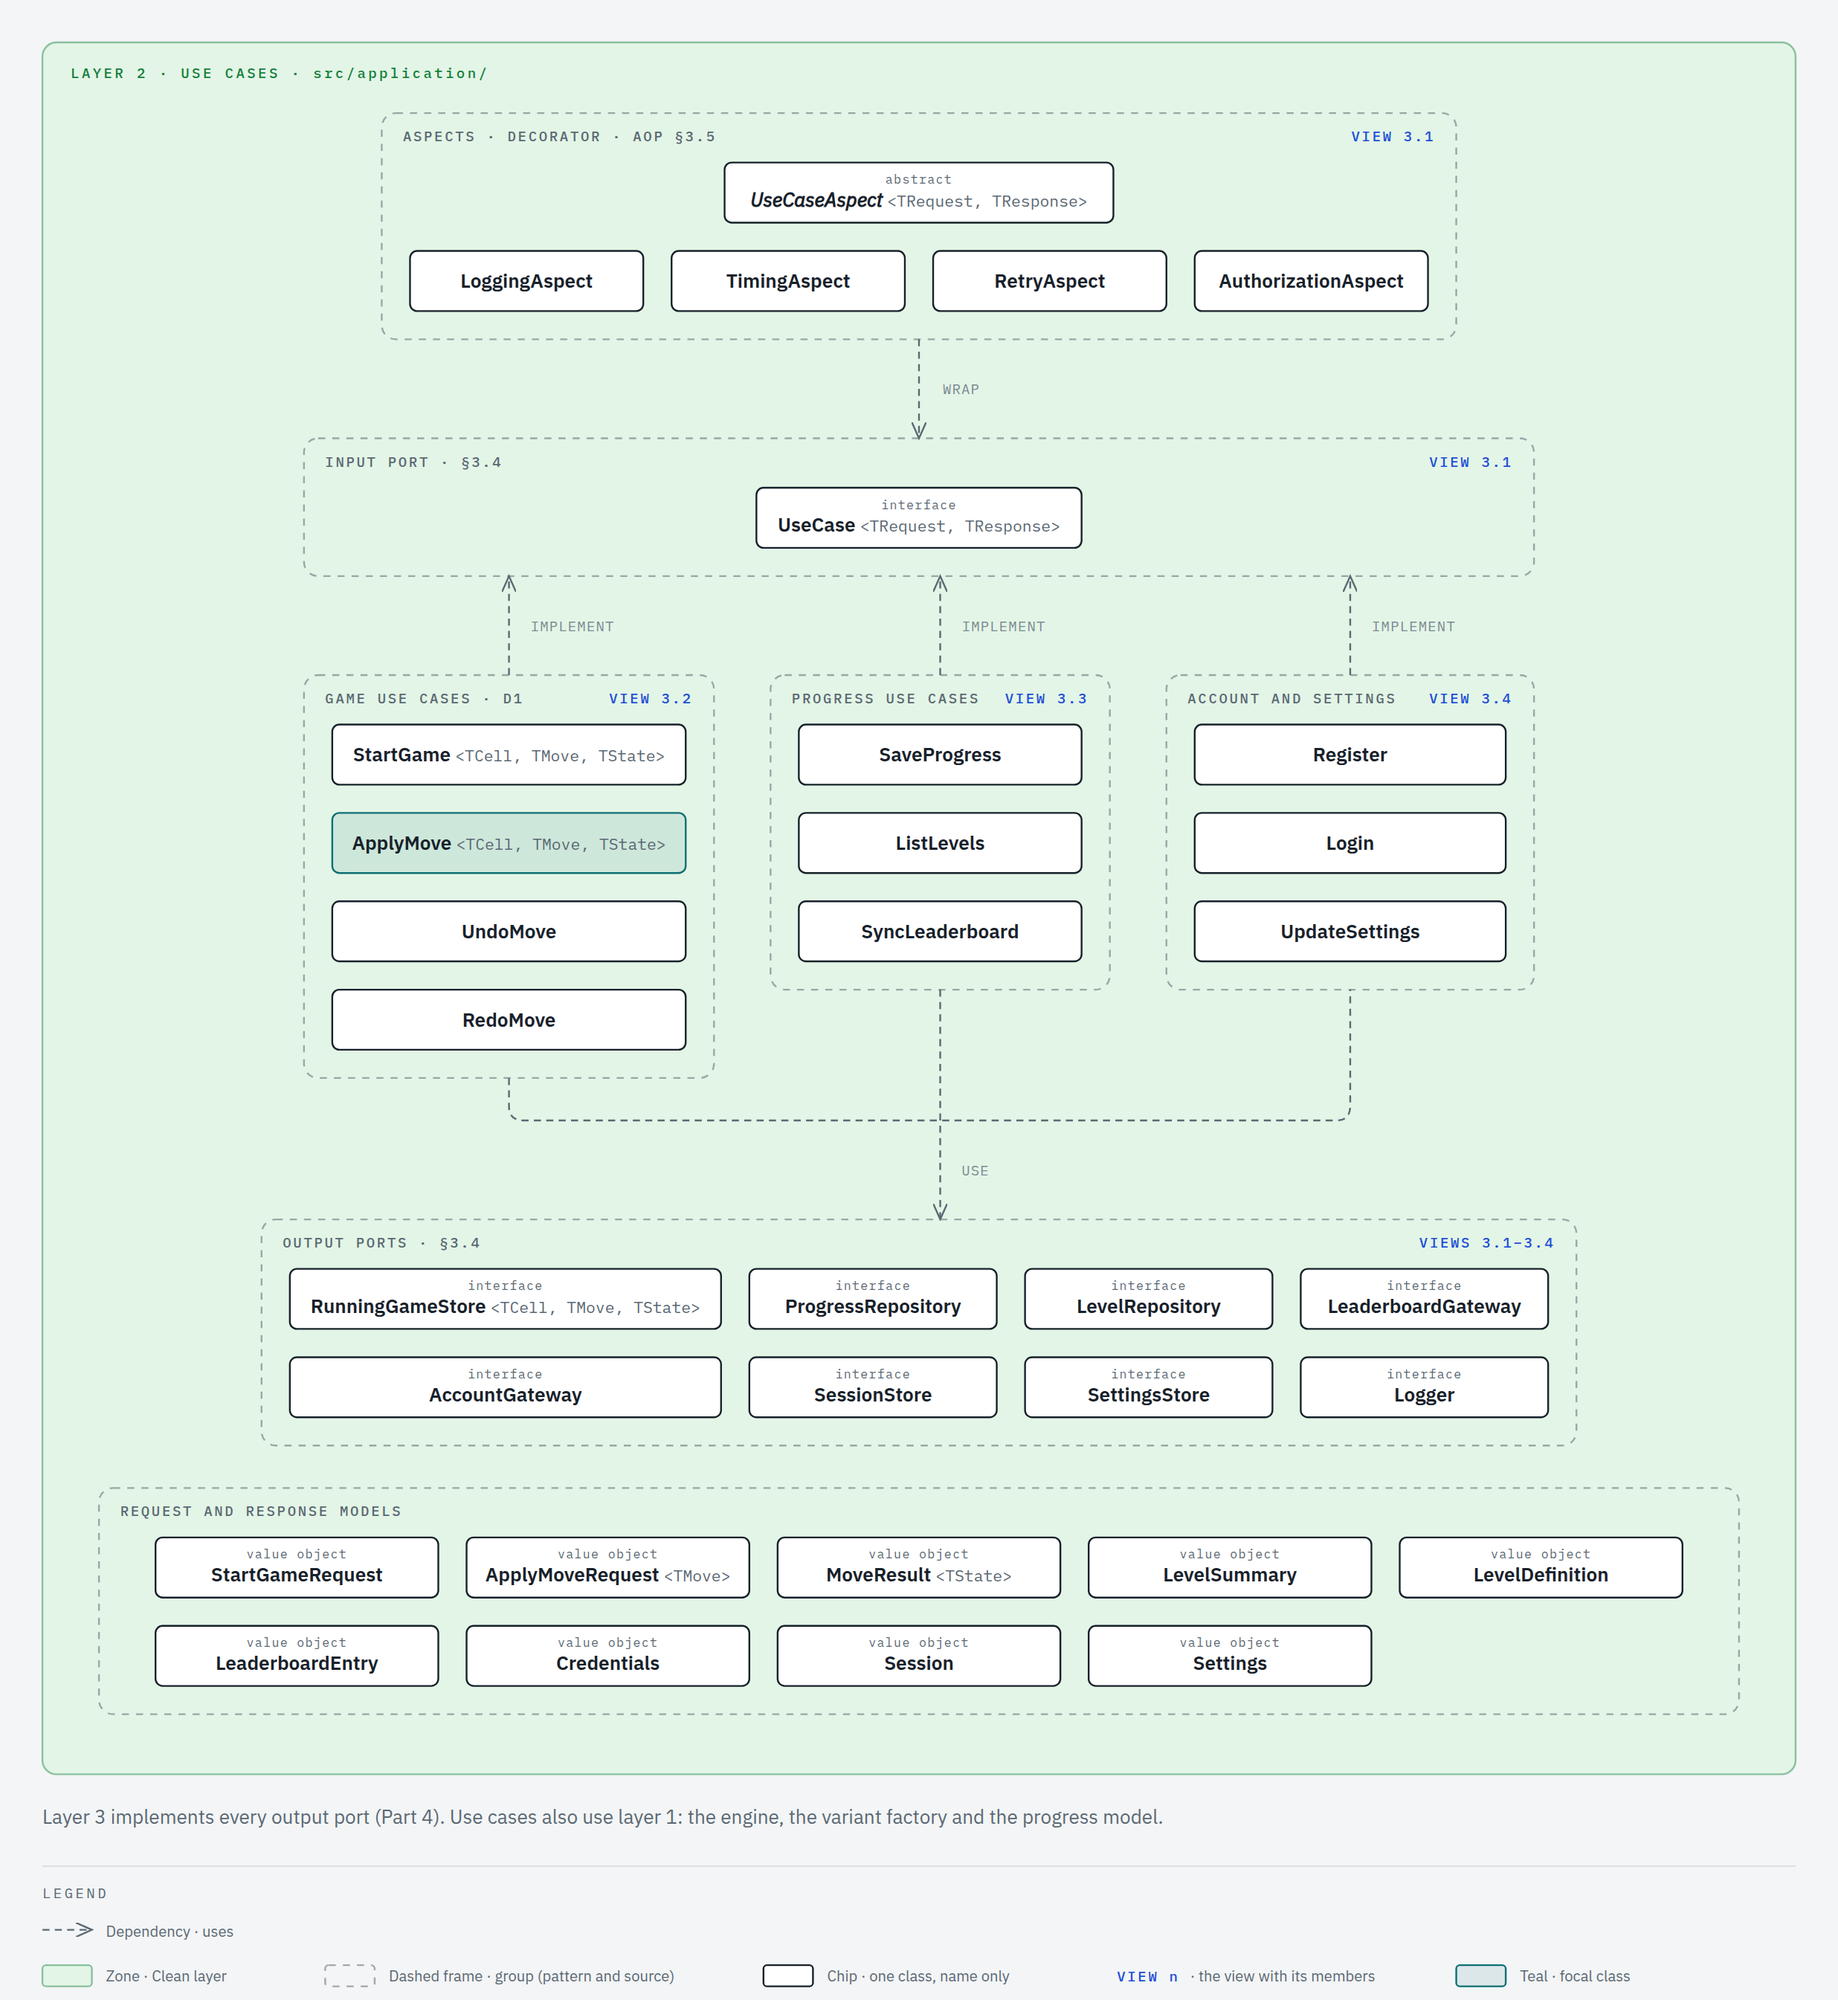
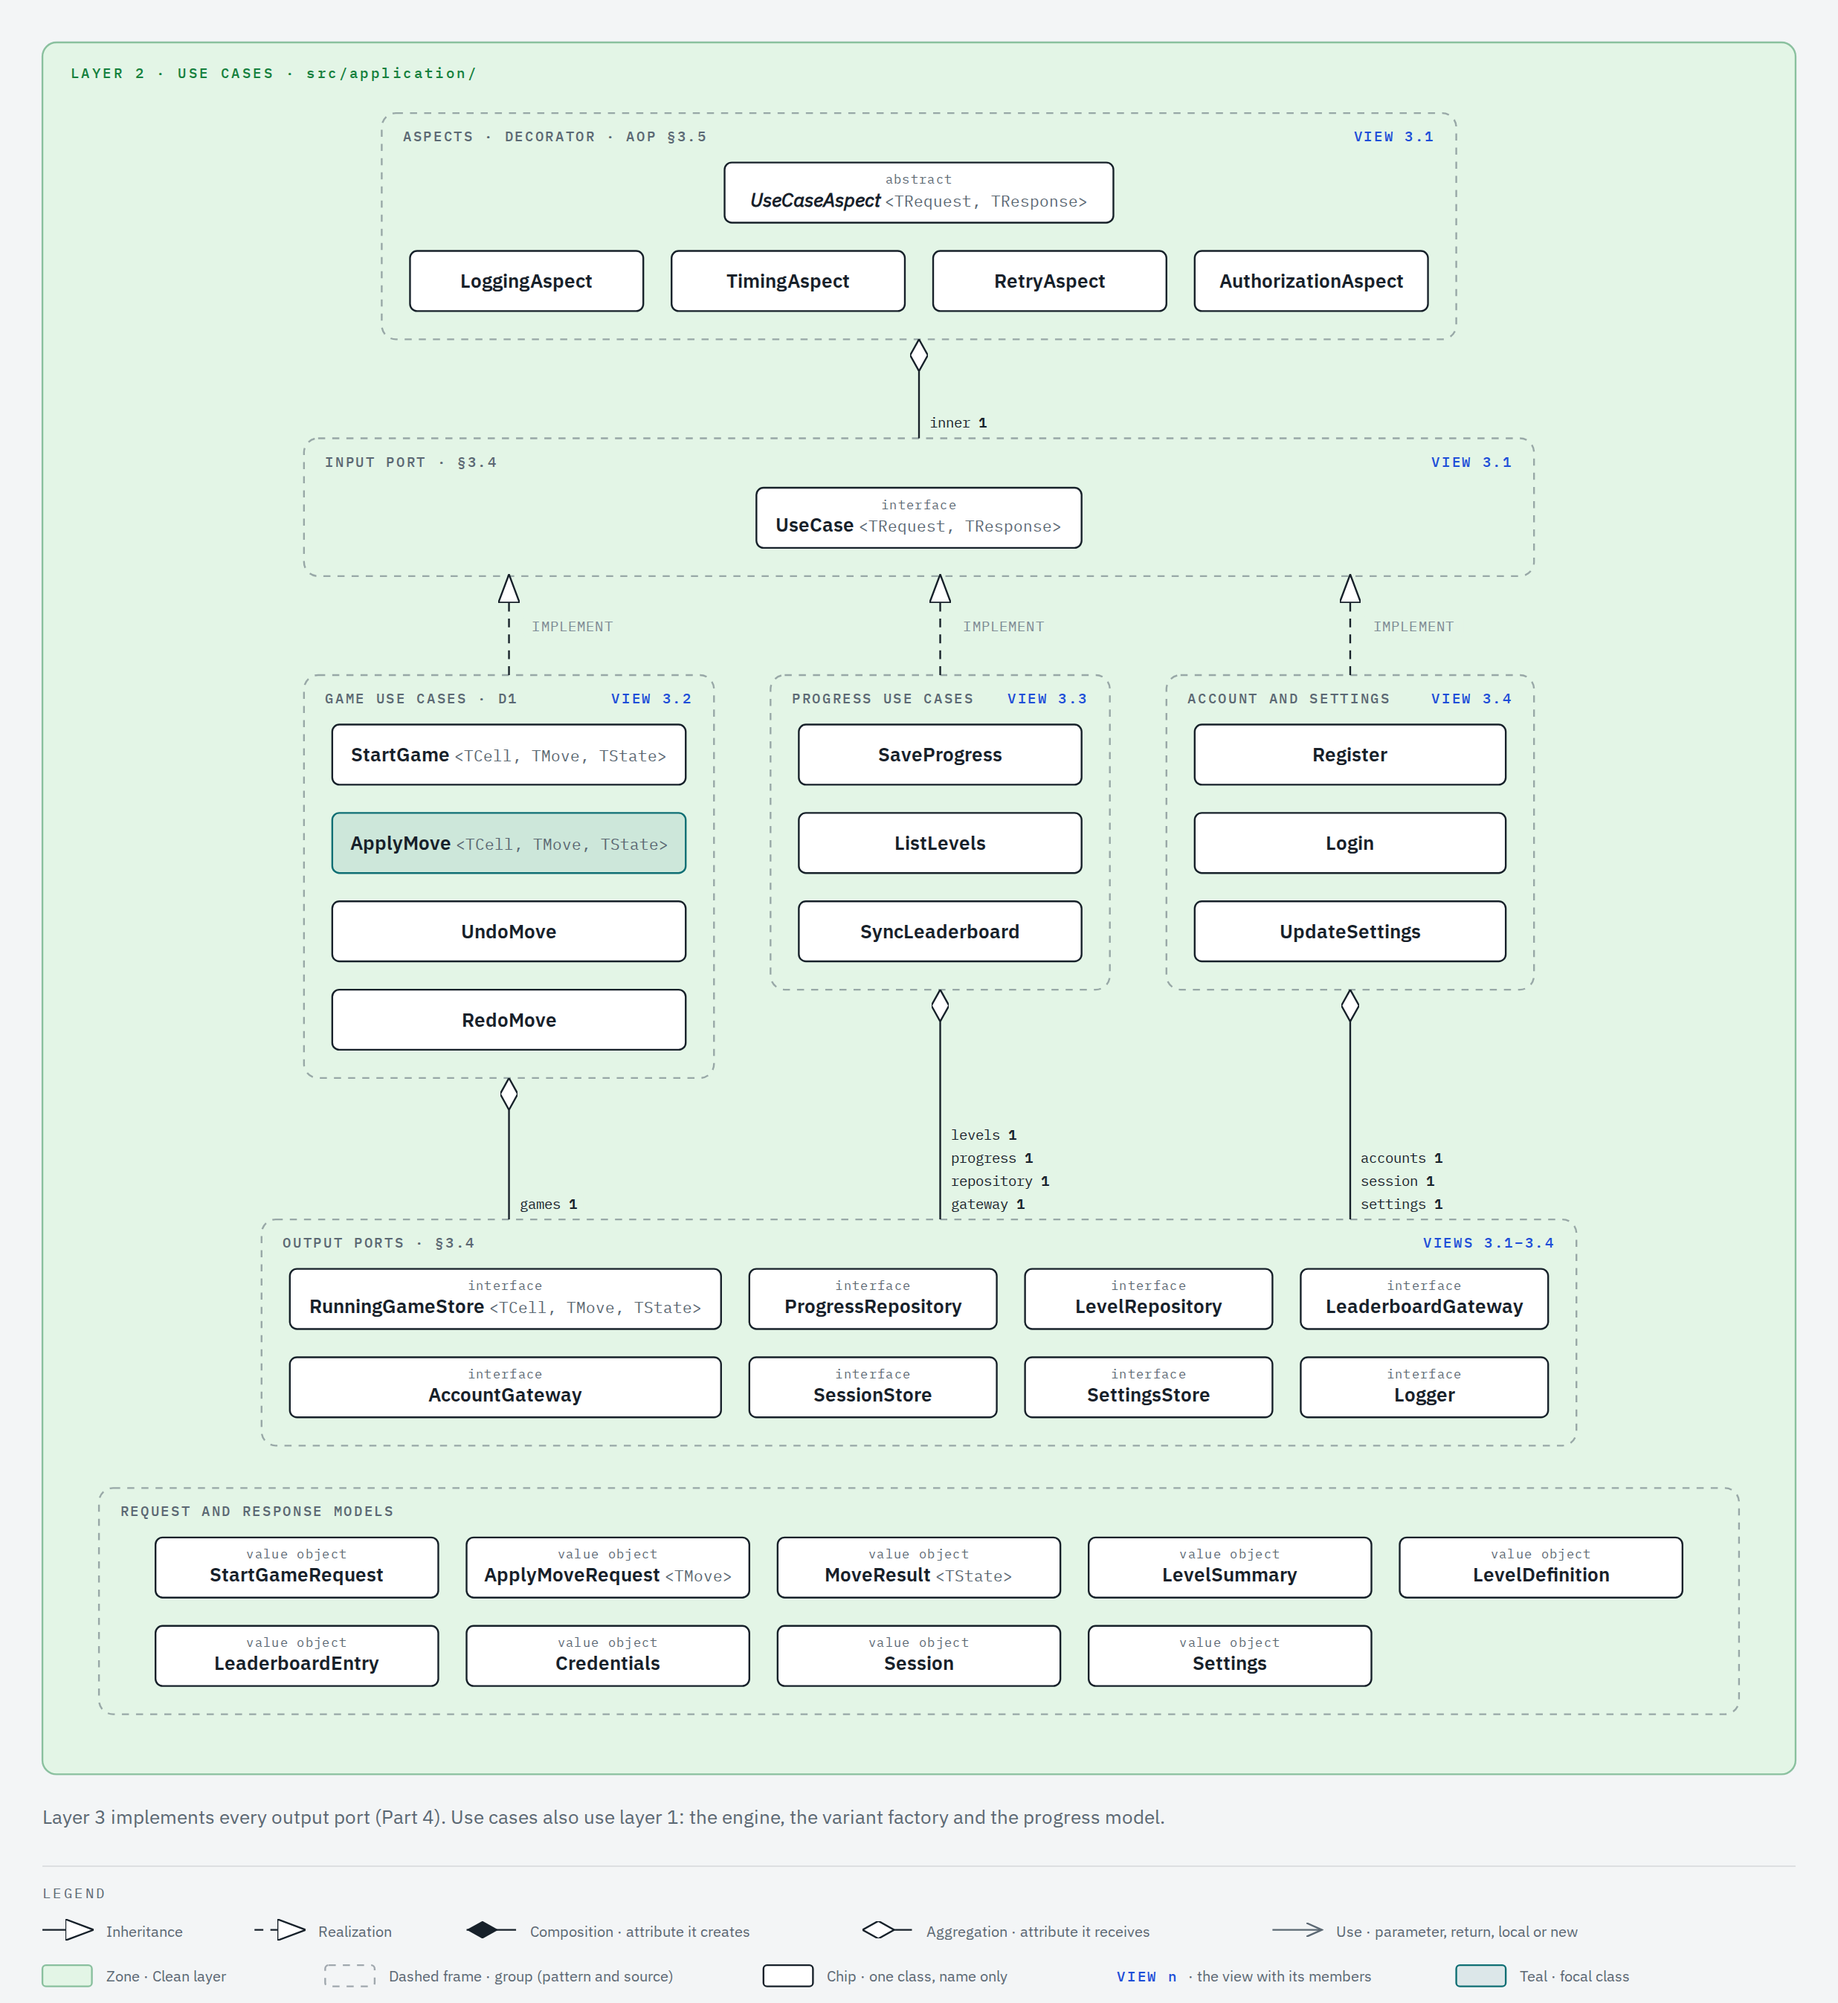
docs(architecture): show realizations and port attributes in the use case map
IMPLEMENT lines are realizations. The shared use bus becomes one aggregation per
group, with the role names of its use cases.

diff --git a/docs/architecture/classes/views/map-3-usecases.html b/docs/architecture/classes/views/map-3-usecases.html
@@ -88,6 +88,44 @@
           >
             <path d="M0,0 L9,4 L0,8" fill="none" stroke="#5b6873" stroke-width="1" />
           </marker>
+          <marker
+            id="mapuc-triangle"
+            markerWidth="16"
+            markerHeight="12"
+            refX="15"
+            refY="6"
+            orient="auto"
+            markerUnits="userSpaceOnUse"
+          >
+            <polygon points="0 0, 16 6, 0 12" fill="#ffffff" stroke="#17212a" stroke-width="1" />
+          </marker>
+          <marker
+            id="mapuc-diamond-filled"
+            markerWidth="18"
+            markerHeight="10"
+            refX="0"
+            refY="5"
+            orient="auto"
+            markerUnits="userSpaceOnUse"
+          >
+            <polygon points="0 5, 9 0, 18 5, 9 10" fill="#17212a" />
+          </marker>
+          <marker
+            id="mapuc-diamond-hollow"
+            markerWidth="18"
+            markerHeight="10"
+            refX="0"
+            refY="5"
+            orient="auto"
+            markerUnits="userSpaceOnUse"
+          >
+            <polygon
+              points="0 5, 9 0, 18 5, 9 10"
+              fill="#ffffff"
+              stroke="#17212a"
+              stroke-width="1"
+            />
+          </marker>
         </defs>
 
         <rect width="100%" height="100%" fill="#f3f5f6" />
@@ -351,82 +389,83 @@
         </text>
 
         <!-- Dependencies between groups (drawn before chips) -->
-        <!-- Aspects wrap the input port: down -->
+        <!-- Aspects keep the inner UseCase they receive: aggregation, down -->
         <line
           x1="520"
           y1="192"
           x2="520"
           y2="248"
-          stroke="#5b6873"
+          stroke="#17212a"
           stroke-width="1"
-          stroke-dasharray="4,3"
-          marker-end="url(#mapuc-open)"
+          marker-start="url(#mapuc-diamond-hollow)"
         />
-        <!-- Game use cases implement the input port: up -->
+        <!-- Game use cases implement the input port: realization, up -->
         <line
           x1="288"
           y1="382"
           x2="288"
           y2="326"
-          stroke="#5b6873"
+          stroke="#17212a"
           stroke-width="1"
-          stroke-dasharray="4,3"
-          marker-end="url(#mapuc-open)"
+          stroke-dasharray="5,4"
+          marker-end="url(#mapuc-triangle)"
         />
-        <!-- Progress use cases implement the input port: up -->
+        <!-- Progress use cases implement the input port: realization, up -->
         <line
           x1="532"
           y1="382"
           x2="532"
           y2="326"
-          stroke="#5b6873"
+          stroke="#17212a"
           stroke-width="1"
-          stroke-dasharray="4,3"
-          marker-end="url(#mapuc-open)"
+          stroke-dasharray="5,4"
+          marker-end="url(#mapuc-triangle)"
         />
-        <!-- Account and settings implement the input port: up -->
+        <!-- Account and settings implement the input port: realization, up -->
         <line
           x1="764"
           y1="382"
           x2="764"
           y2="326"
-          stroke="#5b6873"
+          stroke="#17212a"
           stroke-width="1"
-          stroke-dasharray="4,3"
-          marker-end="url(#mapuc-open)"
+          stroke-dasharray="5,4"
+          marker-end="url(#mapuc-triangle)"
         />
-        <!-- Game, progress and account use the output ports: one shared bus -->
-        <path
-          d="M288,610 V626 Q288,634 296,634 H756 Q764,634 764,626 V560"
-          fill="none"
-          stroke="#5b6873"
+        <!-- Game use cases keep the output ports they receive: aggregation, down -->
+        <line
+          x1="288"
+          y1="610"
+          x2="288"
+          y2="690"
+          stroke="#17212a"
           stroke-width="1"
-          stroke-dasharray="4,3"
+          marker-start="url(#mapuc-diamond-hollow)"
         />
+
+        <!-- Progress use cases keep the output ports they receive: aggregation, down -->
         <line
           x1="532"
           y1="560"
           x2="532"
           y2="690"
-          stroke="#5b6873"
+          stroke="#17212a"
           stroke-width="1"
-          stroke-dasharray="4,3"
-          marker-end="url(#mapuc-open)"
+          marker-start="url(#mapuc-diamond-hollow)"
+        />
+
+        <!-- Account and settings keep the output ports they receive: aggregation, down -->
+        <line
+          x1="764"
+          y1="560"
+          x2="764"
+          y2="690"
+          stroke="#17212a"
+          stroke-width="1"
+          marker-start="url(#mapuc-diamond-hollow)"
         />
 
         <!-- Arrow labels -->
-        <rect x="528" y="214" width="32" height="12" rx="2" fill="#e3f5e6" />
-        <text
-          x="544"
-          y="223"
-          fill="#7d8a94"
-          font-size="8"
-          font-family="'IBM Plex Mono', monospace"
-          text-anchor="middle"
-          letter-spacing="0.06em"
-        >
-          WRAP
-        </text>
         <rect x="296" y="348" width="56" height="12" rx="2" fill="#e3f5e6" />
         <text
           x="324"
@@ -463,17 +502,115 @@
         >
           IMPLEMENT
         </text>
-        <rect x="540" y="656" width="24" height="12" rx="2" fill="#e3f5e6" />
+
+        <!-- Role names and multiplicities at the part end -->
+        <rect x="524" y="233" width="38" height="12" rx="2" fill="#e3f5e6" />
         <text
-          x="552"
-          y="665"
-          fill="#7d8a94"
+          x="526"
+          y="242"
+          fill="#17212a"
           font-size="8"
           font-family="'IBM Plex Mono', monospace"
-          text-anchor="middle"
-          letter-spacing="0.06em"
+          text-anchor="start"
         >
-          USE
+          inner
+          <tspan font-weight="600">1</tspan>
+        </text>
+        <rect x="292" y="675" width="38" height="12" rx="2" fill="#e3f5e6" />
+        <text
+          x="294"
+          y="684"
+          fill="#17212a"
+          font-size="8"
+          font-family="'IBM Plex Mono', monospace"
+          text-anchor="start"
+        >
+          games
+          <tspan font-weight="600">1</tspan>
+        </text>
+        <rect x="536" y="636" width="43" height="12" rx="2" fill="#e3f5e6" />
+        <text
+          x="538"
+          y="645"
+          fill="#17212a"
+          font-size="8"
+          font-family="'IBM Plex Mono', monospace"
+          text-anchor="start"
+        >
+          levels
+          <tspan font-weight="600">1</tspan>
+        </text>
+        <rect x="536" y="649" width="52" height="12" rx="2" fill="#e3f5e6" />
+        <text
+          x="538"
+          y="658"
+          fill="#17212a"
+          font-size="8"
+          font-family="'IBM Plex Mono', monospace"
+          text-anchor="start"
+        >
+          progress
+          <tspan font-weight="600">1</tspan>
+        </text>
+        <rect x="536" y="662" width="62" height="12" rx="2" fill="#e3f5e6" />
+        <text
+          x="538"
+          y="671"
+          fill="#17212a"
+          font-size="8"
+          font-family="'IBM Plex Mono', monospace"
+          text-anchor="start"
+        >
+          repository
+          <tspan font-weight="600">1</tspan>
+        </text>
+        <rect x="536" y="675" width="48" height="12" rx="2" fill="#e3f5e6" />
+        <text
+          x="538"
+          y="684"
+          fill="#17212a"
+          font-size="8"
+          font-family="'IBM Plex Mono', monospace"
+          text-anchor="start"
+        >
+          gateway
+          <tspan font-weight="600">1</tspan>
+        </text>
+        <rect x="768" y="649" width="52" height="12" rx="2" fill="#e3f5e6" />
+        <text
+          x="770"
+          y="658"
+          fill="#17212a"
+          font-size="8"
+          font-family="'IBM Plex Mono', monospace"
+          text-anchor="start"
+        >
+          accounts
+          <tspan font-weight="600">1</tspan>
+        </text>
+        <rect x="768" y="662" width="48" height="12" rx="2" fill="#e3f5e6" />
+        <text
+          x="770"
+          y="671"
+          fill="#17212a"
+          font-size="8"
+          font-family="'IBM Plex Mono', monospace"
+          text-anchor="start"
+        >
+          session
+          <tspan font-weight="600">1</tspan>
+        </text>
+        <rect x="768" y="675" width="52" height="12" rx="2" fill="#e3f5e6" />
+        <text
+          x="770"
+          y="684"
+          fill="#17212a"
+          font-size="8"
+          font-family="'IBM Plex Mono', monospace"
+          text-anchor="start"
+        >
+          settings
+          <tspan font-weight="600">1</tspan>
         </text>
 
         <!-- Chips: aspects -->
@@ -1352,10 +1489,9 @@
           y1="1092"
           x2="52"
           y2="1092"
-          stroke="#5b6873"
+          stroke="#17212a"
           stroke-width="1"
-          stroke-dasharray="4,3"
-          marker-end="url(#mapuc-open)"
+          marker-end="url(#mapuc-triangle)"
         />
         <text
           x="60"
@@ -1364,7 +1500,80 @@
           font-size="8.5"
           font-family="'IBM Plex Sans', sans-serif"
         >
-          Dependency · uses
+          Inheritance
+        </text>
+        <line
+          x1="144"
+          y1="1092"
+          x2="172"
+          y2="1092"
+          stroke="#17212a"
+          stroke-width="1"
+          stroke-dasharray="5,4"
+          marker-end="url(#mapuc-triangle)"
+        />
+        <text
+          x="180"
+          y="1096"
+          fill="#5b6873"
+          font-size="8.5"
+          font-family="'IBM Plex Sans', sans-serif"
+        >
+          Realization
+        </text>
+        <line
+          x1="264"
+          y1="1092"
+          x2="292"
+          y2="1092"
+          stroke="#17212a"
+          stroke-width="1"
+          marker-start="url(#mapuc-diamond-filled)"
+        />
+        <text
+          x="300"
+          y="1096"
+          fill="#5b6873"
+          font-size="8.5"
+          font-family="'IBM Plex Sans', sans-serif"
+        >
+          Composition · attribute it creates
+        </text>
+        <line
+          x1="488"
+          y1="1092"
+          x2="516"
+          y2="1092"
+          stroke="#17212a"
+          stroke-width="1"
+          marker-start="url(#mapuc-diamond-hollow)"
+        />
+        <text
+          x="524"
+          y="1096"
+          fill="#5b6873"
+          font-size="8.5"
+          font-family="'IBM Plex Sans', sans-serif"
+        >
+          Aggregation · attribute it receives
+        </text>
+        <line
+          x1="720"
+          y1="1092"
+          x2="748"
+          y2="1092"
+          stroke="#5b6873"
+          stroke-width="1"
+          marker-end="url(#mapuc-open)"
+        />
+        <text
+          x="756"
+          y="1096"
+          fill="#5b6873"
+          font-size="8.5"
+          font-family="'IBM Plex Sans', sans-serif"
+        >
+          Use · parameter, return, local or new
         </text>
 
         <rect
